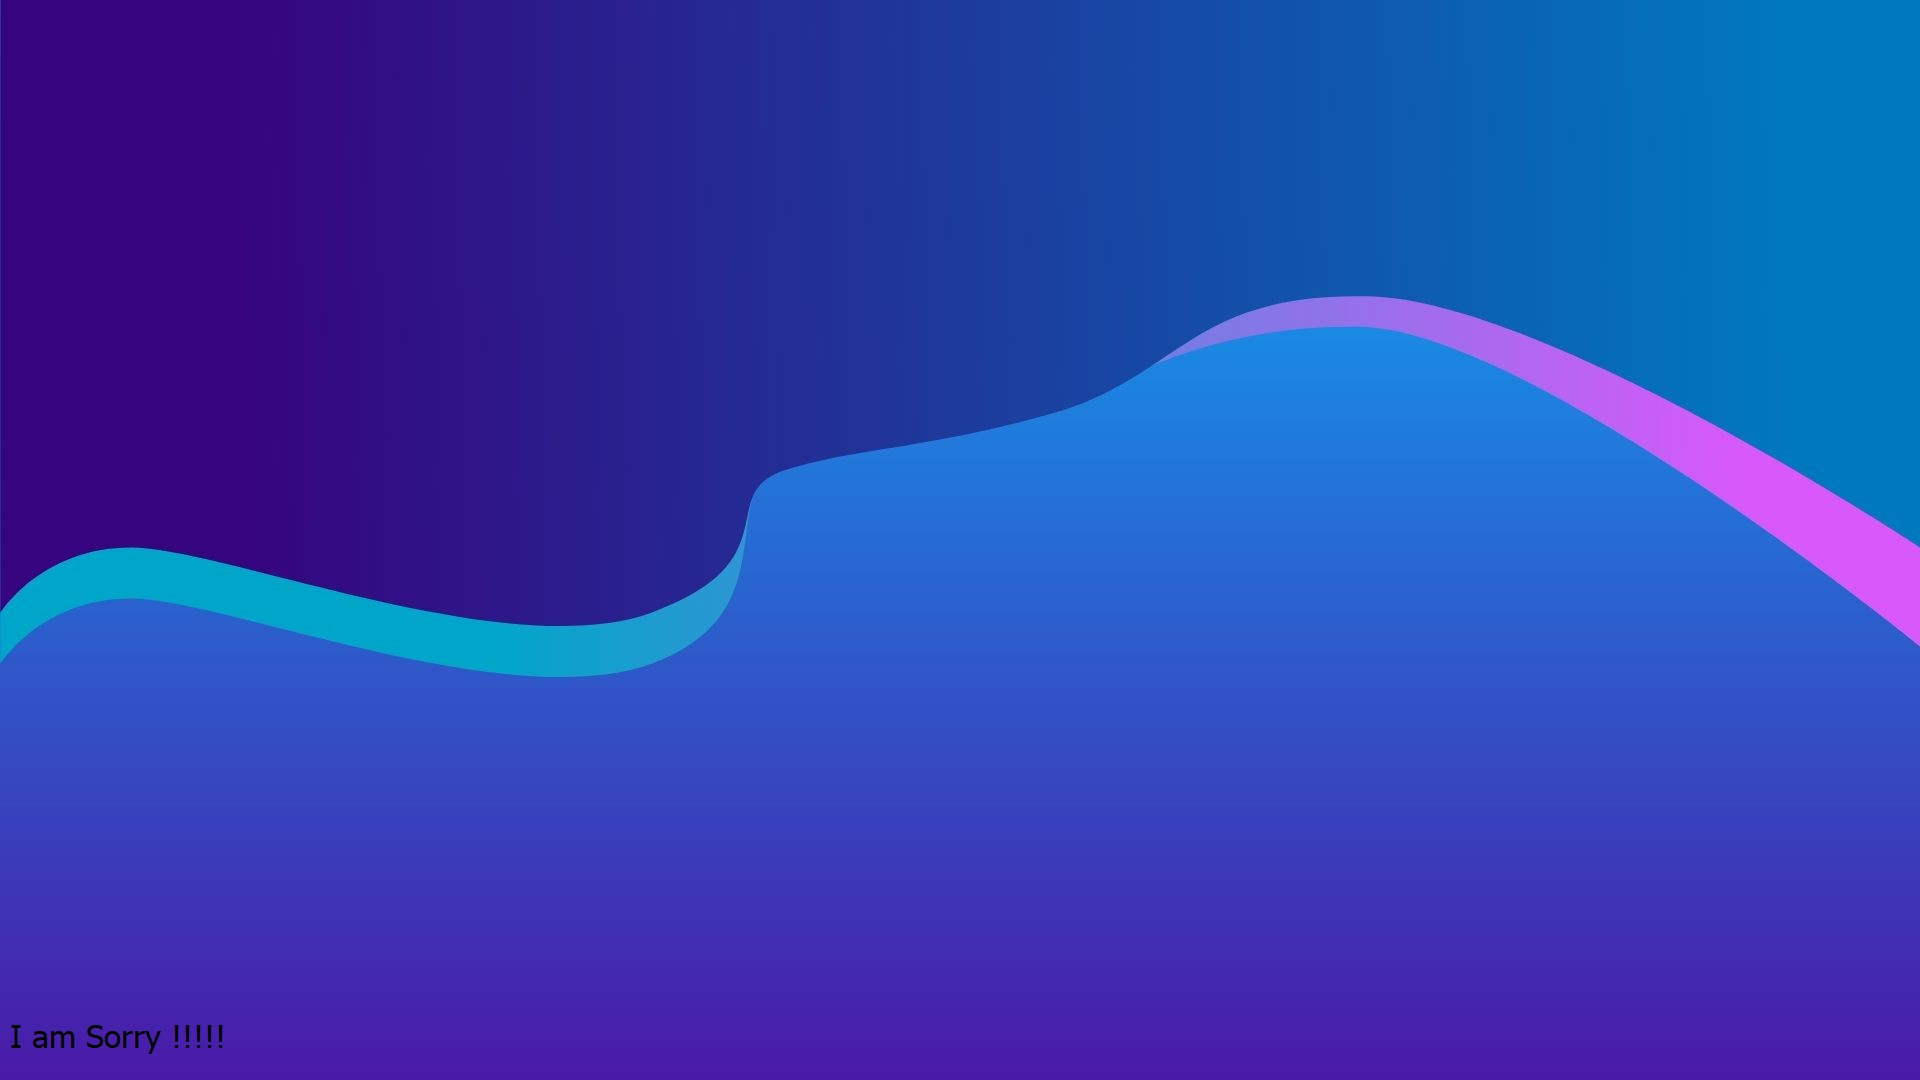
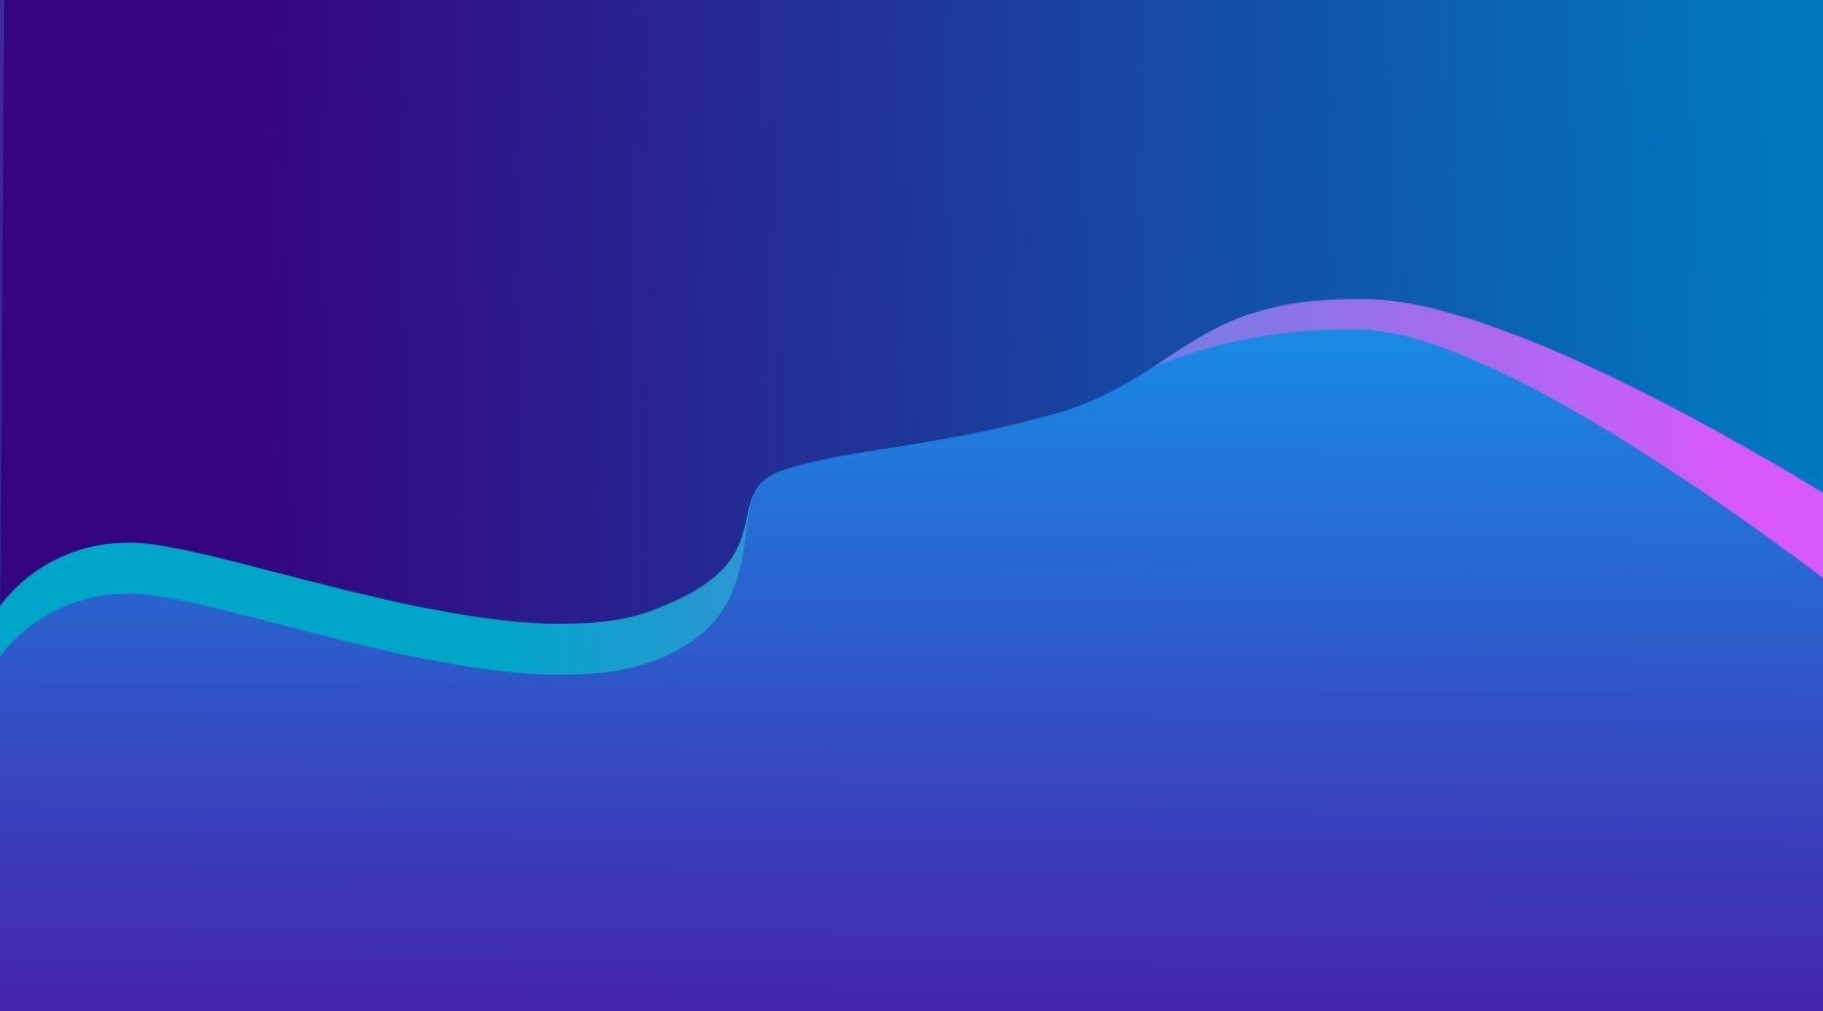
design page added

diff --git a/CSS/kasper.css b/CSS/kasper.css
@@ -2,6 +2,8 @@
 :root{
 	--main-color:#19c8fa;
 	--transparent-color:rgb(6 125 157 /70%);
+	--p-color:#777;
+	--section-padding: 100px
 }
 /* end variables */
 /* start global rules */
@@ -15,7 +17,6 @@ html{
 }
 body{
 	font-family: "open sans", sans-serif;
-	background-color: black;
 }
 .container{
 	padding-left: 15px;
@@ -50,6 +51,48 @@ ul{
 	}
 }
 /* end global rules */
+
+/* start components */
+.main-heading{
+	text-align: center;
+}
+.main-heading h2{
+	font-weight: normal;
+	font-size: 40px;
+	position: relative;
+	margin-bottom: 60px;
+	text-transform: uppercase;
+}
+.main-heading h2::before{
+	content: "";
+	position: absolute;
+	left: 50%;
+	transform: translatex(-50%);
+	width: 120px;
+	height: 2px;
+	background-color: #333;
+	bottom: -40%;
+}
+.main-heading h2::after{
+	content: "";
+	position: absolute;
+	left: 50%;
+	transform: translateX(-50%);
+	width: 14px;
+	height: 14px;
+	bottom: -30px;
+	border: 2px solid #333;
+	border-radius: 50%;
+	background-color: white;
+}
+.main-heading p{
+	width: 550px;
+	max-width: 100%;
+	margin: 0 auto 80px;
+	color: var(--p-color);
+	line-height: 2;
+}
+/* end components */
 
 /* start header */
 header{
@@ -228,3 +271,124 @@ header .form i{
 	border-color: var(--main-color);
 }
 /* end landing */
+
+/* start services */
+.services{
+	padding-top: var(--section-padding) ;
+	padding-bottom: var(--section-padding);
+}
+@media (min-width:768px) {
+	.services .services-container{
+		display: grid;
+		grid-template-columns: repeat(auto-fill,minmax(450px, 1fr));
+		grid-column-gap: 30px;
+		grid-row-gap: 50px;
+	}
+	
+}
+.services .box{
+	display: flex;
+	width: 500px;
+	max-width: 100%;
+}
+.services .box i{
+	margin-right: 30px;
+}
+@media (max-width:767px) {
+	.services .box{
+		display: flex;
+		align-items: center;
+		flex-direction: column;
+		text-align: center;
+		margin-bottom: 40px;
+	}
+	.services .box i{
+		margin: 0 0 20px;
+	}
+}
+.services .box h2{
+	margin-bottom: 30px;
+	color: var(--main-color);
+}
+.services .box p{
+	line-height: 2;
+	color: var(--p-color);
+}
+
+/* end services */
+
+/* start design */
+.design{
+	padding-top: var(--section-padding);
+	padding-bottom: var(--section-padding);
+	height: 600px;
+	position: relative;
+	background-image: url(../images/design-background.jpg);
+	background-size: cover;
+	display: flex;
+	align-items: center;
+	overflow: hidden;
+}
+
+.design::before{
+	content: "";
+	position: absolute;
+	left: 0;
+	top: 0;
+	width: 100%;
+	height: 100%;
+	background-color: rgb(0 0 0 /60%);
+
+}
+.design .image,
+.design .text{
+	position: relative;
+	z-index: 2;
+	flex:1;
+}
+.design .image{
+	text-align: center;
+}
+.design .image img{
+	position: relative;
+	bottom: -200px;
+	width: 500px;
+}
+.design .text{
+	width: 50%;
+	padding: 3em;
+	background-color: var(--transparent-color);
+	color: white;
+}
+@media (max-width:767px) {
+	.design{
+		height: 700px;
+	}
+	.design .image img{
+		position: relative;
+		bottom: -300px;
+	}
+	.design .text{
+		position: absolute;
+		width: 100%;
+		top: 35px;
+	}
+}
+.design .text h2{
+	font-size: 30px;
+	font-weight: normal;
+	line-height: 1.4;
+	margin-bottom:17px ;
+}
+.design .text ul li{
+	font-size: 17px;
+	font-weight: 200;
+	padding: 15px 0;
+}
+.design .text ul li::before{
+	font-family: "font awesome 5 free";
+	content: "\e163";
+	font-weight: 900;
+	margin-right: 10px;
+}
+/* end design */

diff --git a/index.html b/index.html
@@ -47,7 +47,8 @@
 				<h2>Hello World!<br />
 					We Are Kasper We Make Art.
 				</h2>
-				<p>Curabitur arcu erat, accumsan id imperdiet et, porttitor at sem. Mauris blandit aliquet
+				<p>
+					Curabitur arcu erat, accumsan id imperdiet et, porttitor at sem. Mauris blandit aliquet
 					nibh pulvinar a. Curabitur aliquet quam. Accumsan id imperdiet et, porttitor at sem. Ma
 					elit, eget tincidunt.
 				</p>
@@ -62,5 +63,66 @@
 		</ul>
 	</div>
 	<!-- end landing -->
+
+	<!-- start services -->
+	<div class="services">
+		<div class="container">
+			<div class="main-heading">
+				<h2>Services</h2>
+				<p>
+				Curabitur arcu erat, accumsan id imperdiet et, porttitor at sem. Mauris blandit aliquet
+				nibh pulvinar a. Curabitur aliquet quam. Accumsan id imperdiet et, porttitor at sem. Ma
+				elit, eget tincidunt.
+				</p>
+			</div>
+			<div class="services-container">
+				<div class="box">
+				<i class="fa-solid fa-desktop fa-3x"></i>
+					<div class="text">
+						<h2>praesentium exercitationem!</h2>
+						<p> Illum esse reiciendis a iste voluptatem sint, obcaecati rerum ex odio impedit labore voluptatibus vitae qui quas, nulla doloribu</p>
+					</div>
+				</div>
+				<div class="box">
+				<i class="fa-solid fa-gears fa-3x"></i>
+					<div class="text">
+						<h2>praesentium exercitationem!</h2>
+						<p> Illum esse reiciendis a iste voluptatem sint, obcaecati rerum ex odio impedit labore voluptatibus vitae qui quas, nulla doloribu</p>
+					</div>
+				</div>
+				<div class="box">
+				<i class="fa-solid fa-pen-ruler fa-3x"></i>
+					<div class="text">
+						<h2>praesentium exercitationem!</h2>
+						<p> Illum esse reiciendis a iste voluptatem sint, obcaecati rerum ex odio impedit labore voluptatibus vitae qui quas, nulla doloribu</p>
+					</div>
+				</div>
+				<div class="box">
+				<i class="fa-solid fa-camera fa-3x"></i>
+					<div class="text">
+						<h2>praesentium exercitationem!</h2>
+						<p> Illum esse reiciendis a iste voluptatem sint, obcaecati rerum ex odio impedit labore voluptatibus vitae qui quas, nulla doloribu</p>
+					</div>
+				</div>
+			</div>
+		</div>
+	</div>
+	<!-- end services -->
+	<!-- start design -->
+	<div class="design">
+		<div class="image">
+			<img src="images/mobile.jpg" alt="Mobile">
+		</div>
+		<div class="text">
+			<h2>Our Design Comes With...</h2>
+			<ul>
+				<li>Responsive Design</li>
+				<li>Modern And Clean Design</li>
+				<li>Clean Code</li>
+				<li>Browser Friendly</li>
+			</ul>
+		</div>
+	</div>
+	<!-- end design -->
 </body>
 </html>
